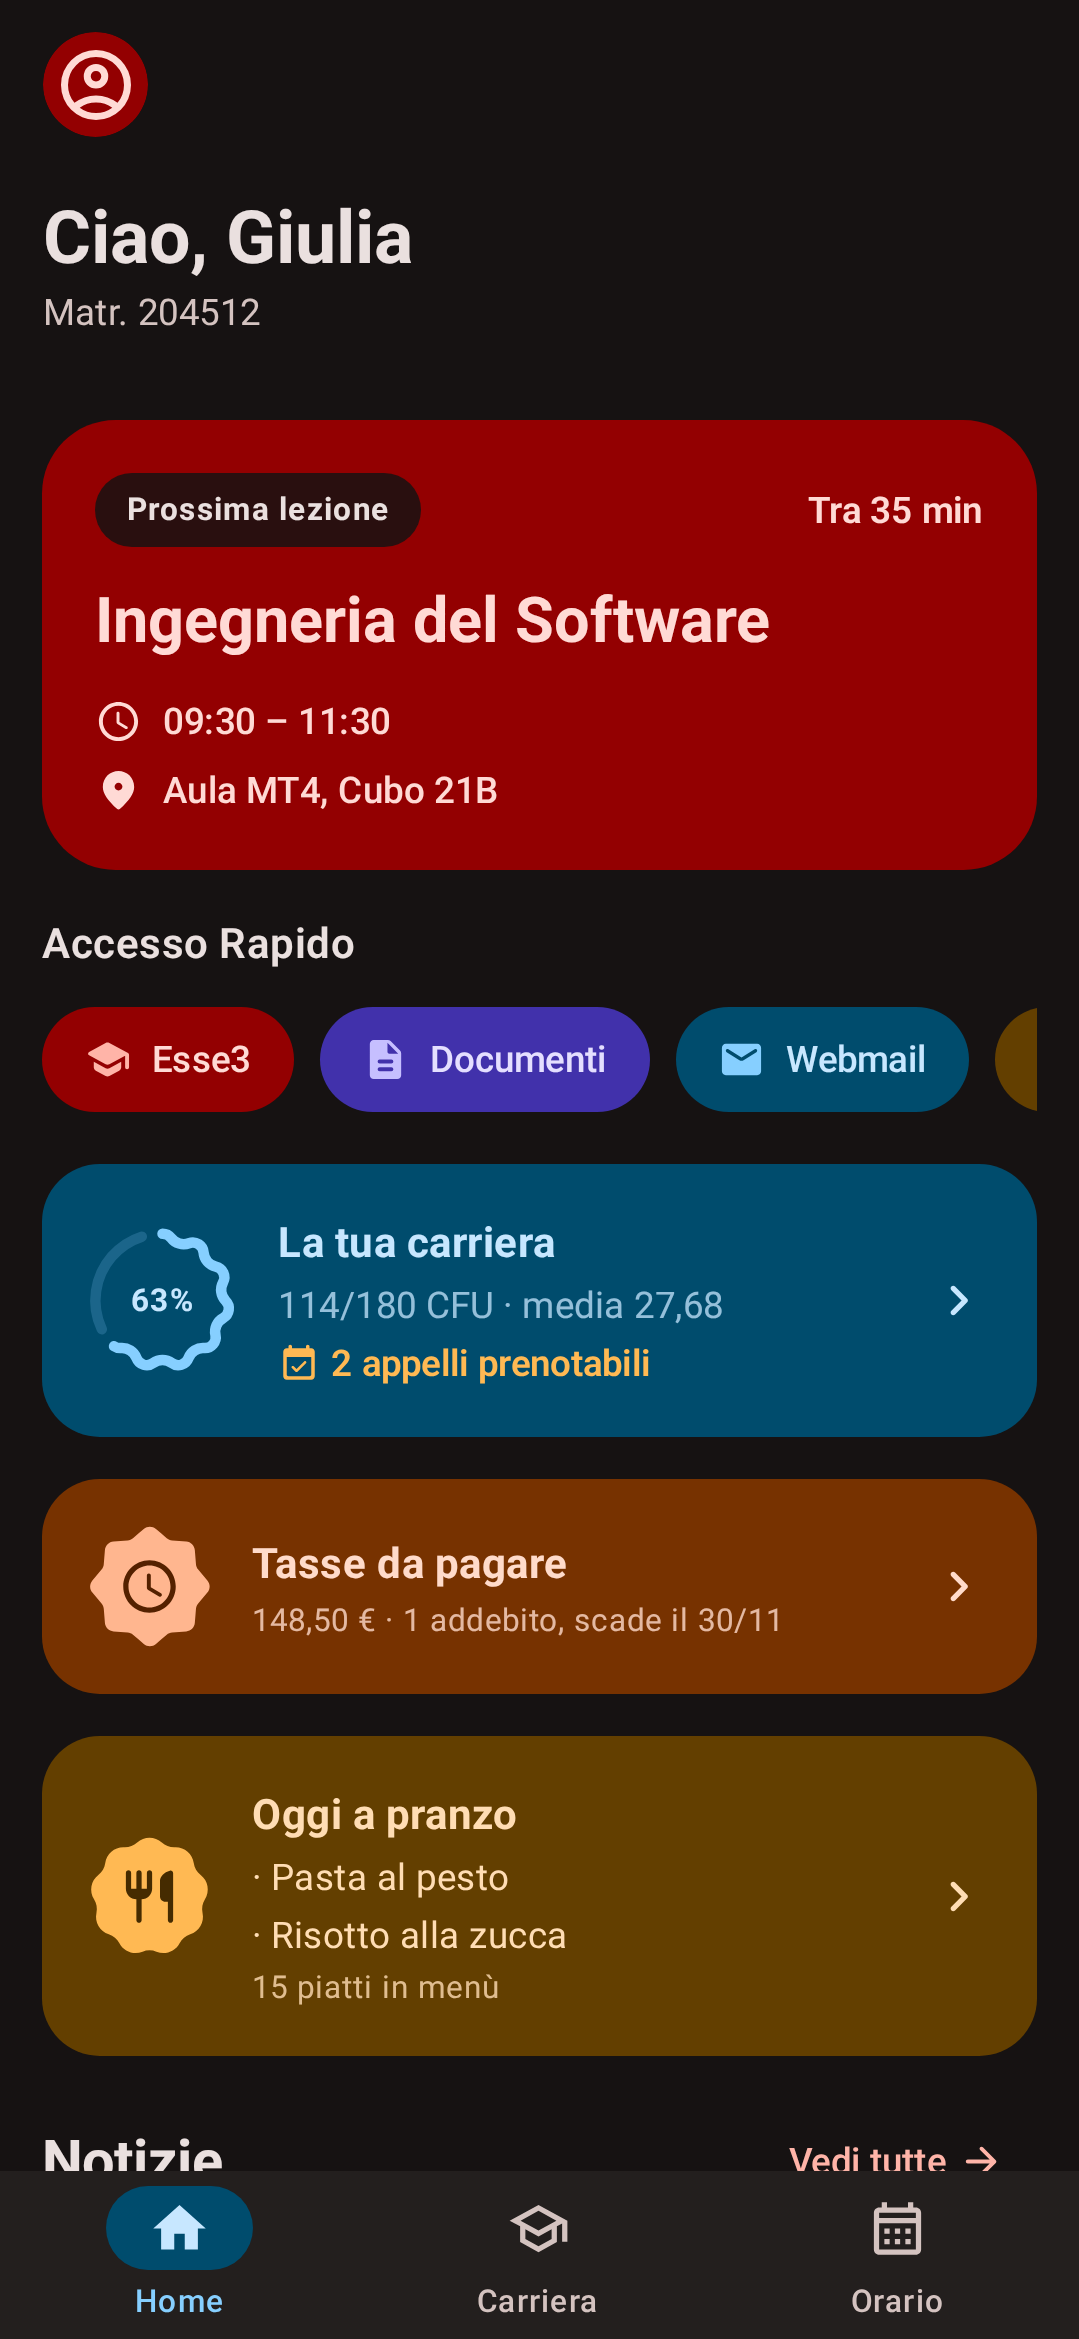
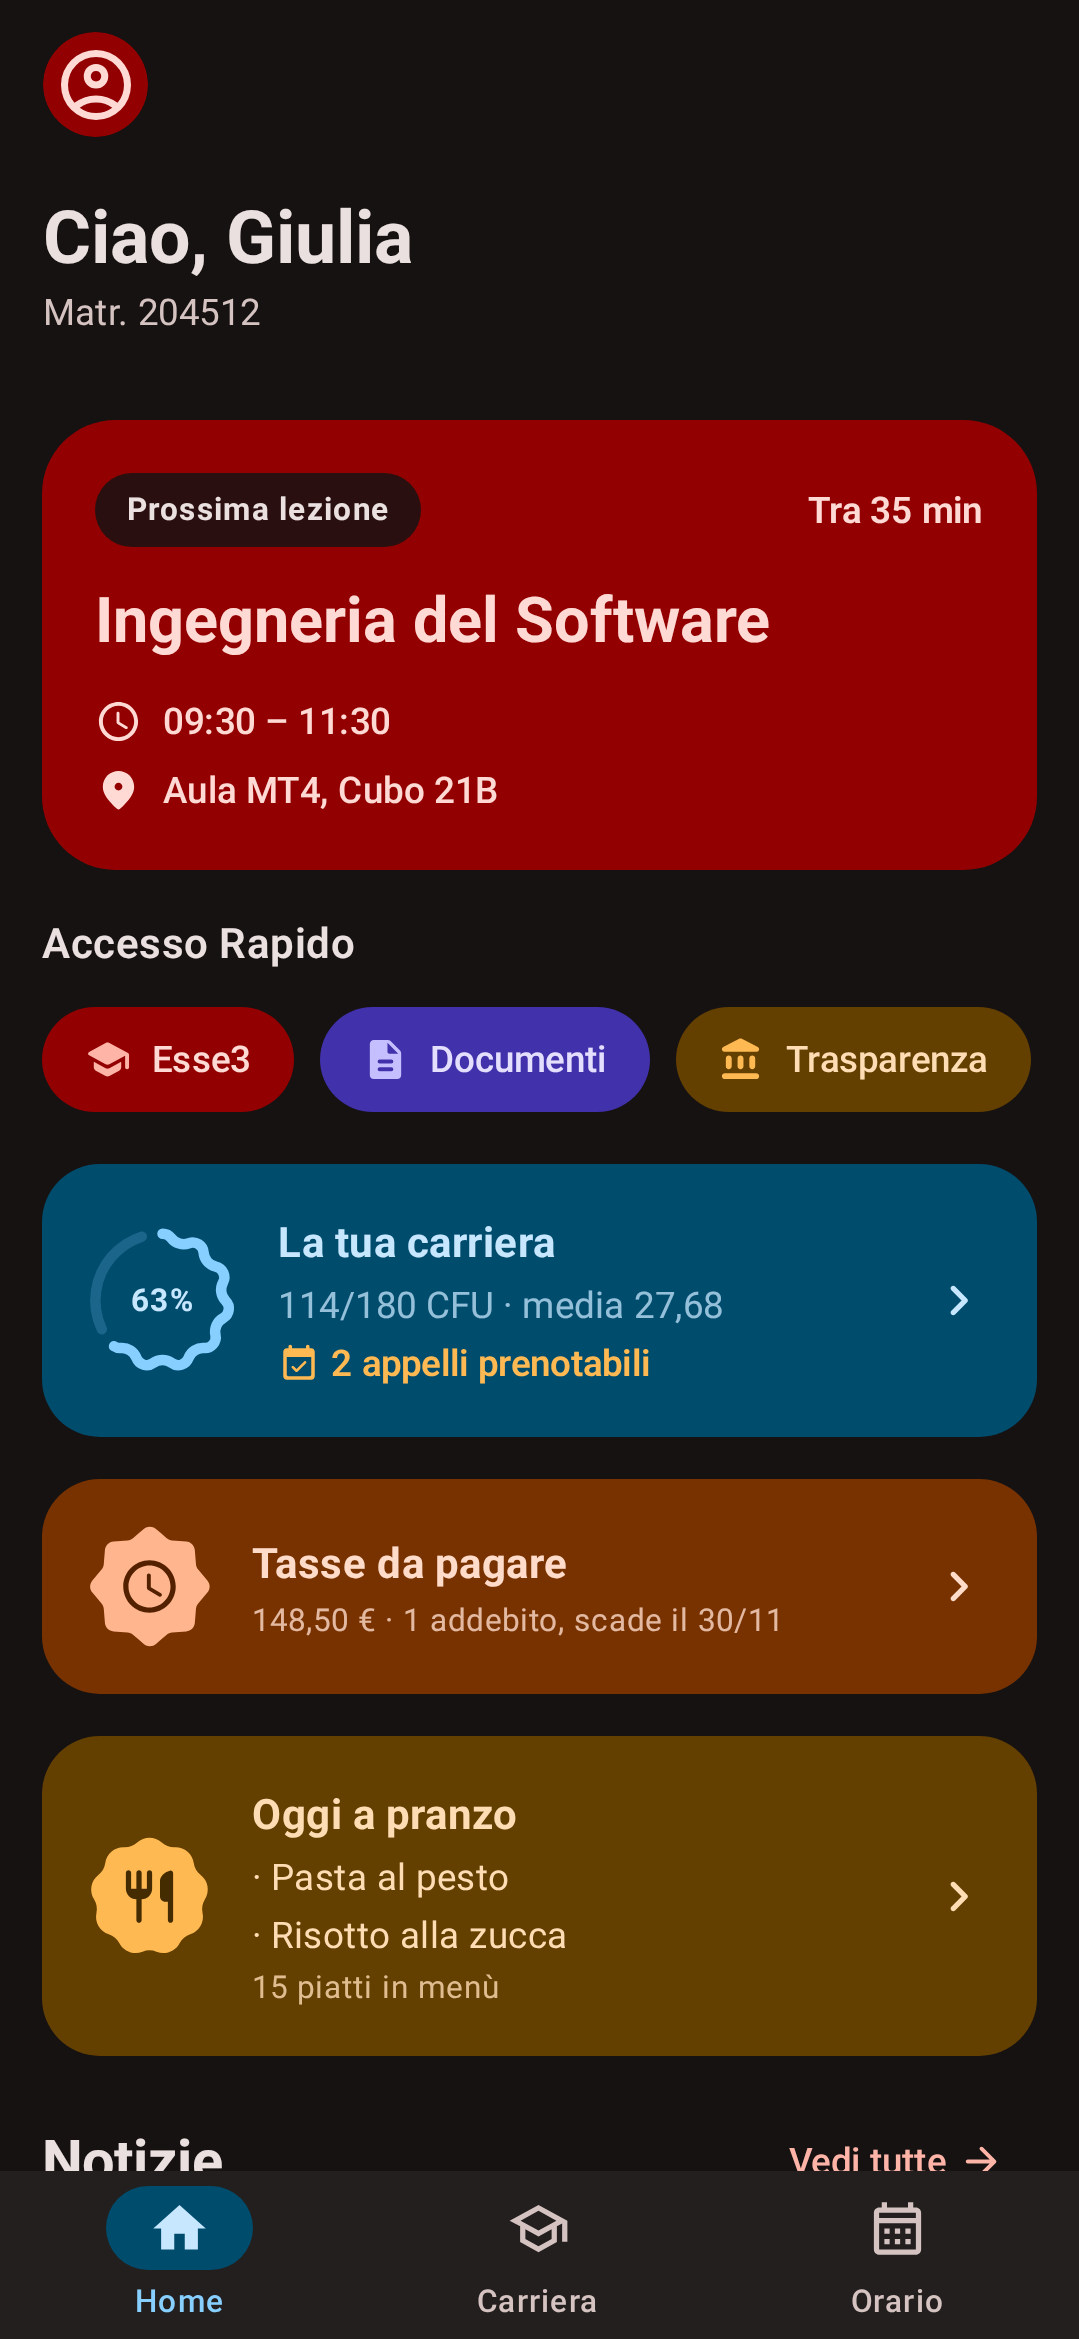
Replace the Webmail quick action with the transparency portal

Changed region(s): [[0.6117, 0.4057, 0.9787, 0.4994]]

diff --git a/features/today/src/main/java/it/fra/myunical/today/models/QuickLink.kt b/features/today/src/main/java/it/fra/myunical/today/models/QuickLink.kt
@@ -1,6 +1,7 @@
 package it.fra.myunical.today.models
 
 import androidx.compose.material.icons.Icons
+import androidx.compose.material.icons.rounded.AccountBalance
 import androidx.compose.material.icons.rounded.Description
 import androidx.compose.material.icons.rounded.LocalLibrary
 import androidx.compose.material.icons.rounded.Mail
@@ -27,6 +28,9 @@ private val Esse3Link = QuickLink("esse3", "Esse3", Icons.Rounded.School, Esse3L
 
 private val DocumentsLink = QuickLink("documents", "Documenti", Icons.Rounded.Description, Esse3Links.CERTIFICATES, "Certificati e autocertificazioni su Esse3", Accent.INFO)
 
+/** Administrative transparency portal of the university; shown in the Home chips and the profile menu. */
+val TransparencyLink = QuickLink("transparency", "Trasparenza", Icons.Rounded.AccountBalance, "https://unical.portaleamministrazionetrasparente.it/", "Amministrazione trasparente dell'Ateneo", Accent.TERTIARY)
+
 /** Campus services opened in a Custom Tab; every URL was checked to be reachable. */
 val CampusLinks = listOf(
     QuickLink("mail", "Webmail", Icons.Rounded.Mail, "https://outlook.com/studenti.unical.it", "Posta istituzionale @studenti.unical.it", Accent.SECONDARY),
@@ -40,4 +44,5 @@ val CampusLinks = listOf(
 const val CANTEEN_LINK_ID = "canteen"
 
 /** Shortcuts in the Home chips row. */
-val DefaultQuickLinks = listOf(Esse3Link, DocumentsLink) + CampusLinks.filter { it.id != "site" && it.id != CANTEEN_LINK_ID }
+val DefaultQuickLinks = listOf(Esse3Link, DocumentsLink, TransparencyLink) +
+    CampusLinks.filter { it.id != "site" && it.id != CANTEEN_LINK_ID && it.id != "mail" }

diff --git a/features/today/src/main/java/it/fra/myunical/today/composables/ProfileSheet.kt b/features/today/src/main/java/it/fra/myunical/today/composables/ProfileSheet.kt
@@ -55,6 +55,7 @@ import it.fra.myunical.domain.model.degreeexplorer.DegreeRegulations
 import it.fra.myunical.domain.model.degreeexplorer.Regulation
 import it.fra.myunical.today.models.CANTEEN_LINK_ID
 import it.fra.myunical.today.models.CampusLinks
+import it.fra.myunical.today.models.TransparencyLink
 import it.fra.myunical.today.models.ProfileUiState
 import it.fra.myunical.today.presentation.StudentAvatar
 import it.fra.myunical.today.presentation.TodayScreenViewModel
@@ -96,6 +97,7 @@ private val ServiceEntries = listOf(
     ProfileEntry("Documenti e certificati", "Certificati e autocertificazioni su Esse3", Icons.Rounded.Description, ProfileDestination.Web(Esse3Links.CERTIFICATES)),
     ProfileEntry("Diritto allo studio", "Borse di studio, alloggi e altri benefici", Icons.Rounded.VolunteerActivism, ProfileDestination.Web(StudentSupportUrl)),
     ProfileEntry("Rubrica di ateneo", "Contatti di docenti e personale", Icons.Rounded.Contacts, ProfileDestination.Directory),
+    ProfileEntry("Amministrazione trasparente", "Documenti, bandi e dati pubblici dell'Ateneo", TransparencyLink.icon, ProfileDestination.Web(TransparencyLink.destinationUrl)),
     ProfileEntry("Portale Esse3", "Tutti i servizi per gli studenti", Icons.Rounded.School, ProfileDestination.Web(Esse3Links.HOME))
 )
 

diff --git a/docs/claude/features.md b/docs/claude/features.md
@@ -29,10 +29,10 @@ vengono cancellati, altrimenti dopo il logout il login riappariva in caricamento
 - `DepartmentNoticesSection`: ultimi 3 avvisi del dipartimento sotto il carosello (nascosta se il
   dipartimento è ignoto o non ci sono avvisi), "Vedi tutti" apre la scheda del dipartimento;
 - `NewsCarousel`, `QuickLinkSection` (azioni rapide in `models/QuickLink.kt`, ognuna con un `Accent`:
-  Esse3, Documenti = certificati Esse3, Webmail, Biblioteche, Mappa). Nessun pulsante nella top bar: il portale si apre dall'azione rapida Esse3. I link passano da `LocalLinkOpener` (vedi "Pagine Esse3 nell'app");
+  Esse3, Documenti = certificati Esse3, Trasparenza = amministrazione trasparente, Biblioteche, Mappa; la Webmail è solo nel menu profilo). Nessun pulsante nella top bar: il portale si apre dall'azione rapida Esse3. I link passano da `LocalLinkOpener` (vedi "Pagine Esse3 nell'app");
 - `ProfileSheet`: profilo, cambio carriera e voci di menu (`ProfileDestination`). Studente: Libretto,
   Appelli, Bacheca esiti, Piano di studi, regolamenti del corso, Tasse. Servizi: Documenti e certificati
-  (Esse3), Diritto allo studio (pagina unical.it), Rubrica, Portale. Campus: Webmail, Mensa (schermata
+  (Esse3), Diritto allo studio (pagina unical.it), Amministrazione trasparente, Rubrica, Portale. Campus: Webmail, Mensa (schermata
   interna, `CANTEEN_LINK_ID`), Biblioteche, Mappa, Sito. Logout.
 - Regolamenti del corso: `GetDegreeRegulationsUseCase` → `DegreeRegulations(cohort, latest)`; il
   ViewModel li carica al cambio di carriera. Le voci compaiono solo se pubblicati: "Regolamento in vigore"
